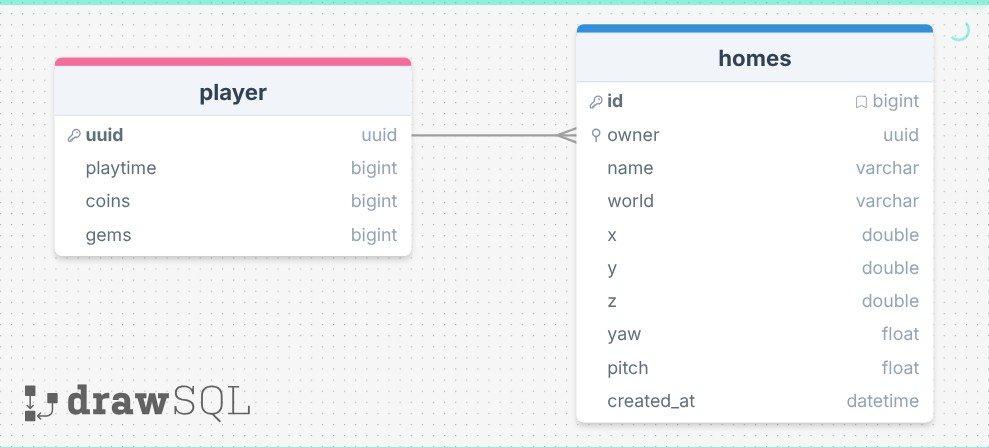
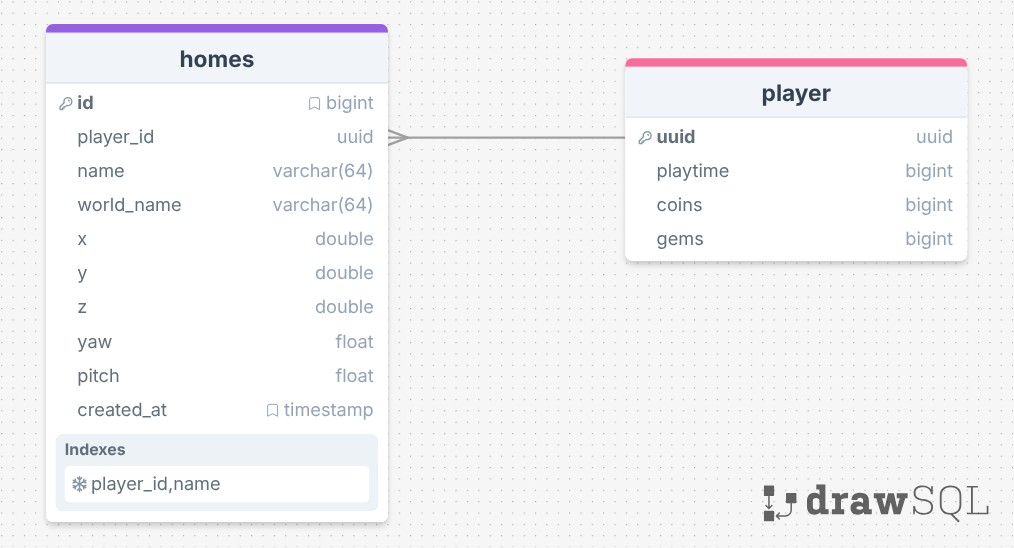
Update DB_SCHEMA and asset to reflect database changes

diff --git a/DB_SCHEMA.md b/DB_SCHEMA.md
@@ -1,4 +1,4 @@
-# Datenbankschema
+# Datenbankschema
 
 ## Schema-Grafik
 
@@ -25,34 +25,42 @@ Das Schema besteht aus einer klaren `1:n`-Beziehung.
 
 Die Tabelle `player` bildet die zentralen Stammdaten eines Spielers ab.
 
-| Spalte     | Typ      | Zweck                          |
-|------------|----------|--------------------------------|
-| `uuid`     | `uuid`   | Primaerschluessel des Spielers |
-| `playtime` | `bigint` | Gesammelte Spielzeit           |
-| `coins`    | `bigint` | Aktueller Coin-Stand           |
-| `gems`     | `bigint` | Aktueller Gem-Stand            |
+| Spalte     | Typ      | Zweck                        |
+|------------|----------|------------------------------|
+| `uuid`     | `uuid`   | Primärschlüssel des Spielers |
+| `playtime` | `bigint` | Gesammelte Spielzeit         |
+| `coins`    | `bigint` | Aktueller Coin-Stand         |
+| `gems`     | `bigint` | Aktueller Gem-Stand          |
 
 ### `homes`
 
 Die Tabelle `homes` speichert feste Teleport-Ziele eines Spielers.
 
-| Spalte       | Typ        | Zweck                                      |
-|--------------|------------|--------------------------------------------|
-| `id`         | `bigint`   | Primaerschlüssel des Home-Eintrags         |
-| `owner`      | `uuid`     | Referenz auf den Besitzer in `player.uuid` |
-| `name`       | `varchar`  | Frei waälbarer Name des Homes              |
-| `world`      | `varchar`  | Welt oder Dimension des Homes              |
-| `x`          | `double`   | X-Koordinate                               |
-| `y`          | `double`   | Y-Koordinate                               |
-| `z`          | `double`   | Z-Koordinate                               |
-| `yaw`        | `float`    | Horizontale Blickrichtung                  |
-| `pitch`      | `float`    | Vertikale Blickrichtung                    |
-| `created_at` | `datetime` | Erstellungszeitpunkt des Homes             |
+| Spalte       | Typ           | Zweck                                     |
+|--------------|---------------|-------------------------------------------|
+| `id`         | `bigint`      | Primärschlüssel des Home-Eintrags         |
+| `player_id`  | `uuid`        | Referenz auf den Spieler in `player.uuid` |
+| `name`       | `varchar(64)` | Frei wählbarer Name des Homes             |
+| `world_name` | `varchar(64)` | Welt oder Dimension des Homes             |
+| `x`          | `double`      | X-Koordinate                              |
+| `y`          | `double`      | Y-Koordinate                              |
+| `z`          | `double`      | Z-Koordinate                              |
+| `yaw`        | `float`       | Horizontale Blickrichtung                 |
+| `pitch`      | `float`       | Vertikale Blickrichtung                   |
+| `created_at` | `timestamp`   | Erstellungszeitpunkt des Homes            |
 
 ---
 
 ## Beziehungen
 
-| Von           | Nach          | Typ            | Bedeutung                                |
-|---------------|---------------|----------------|------------------------------------------|
-| `homes.owner` | `player.uuid` | Fremdschlüssel | Ordnet jedes Home genau einem Spieler zu |
+| Von               | Nach          | Typ             | Bedeutung                                |
+|-------------------|---------------|-----------------|------------------------------------------|
+| `homes.player_id` | `player.uuid` | Fremdschlüssel  | Ordnet jedes Home genau einem Spieler zu |
+
+---
+
+## Indizes
+
+| Tabelle   | Index               | Typ        | Bedeutung                                  |
+|-----------|---------------------|------------|--------------------------------------------|
+| `homes`   | `player_id, name`   | eindeutig  | Verhindert doppelte Home-Namen pro Spieler |
